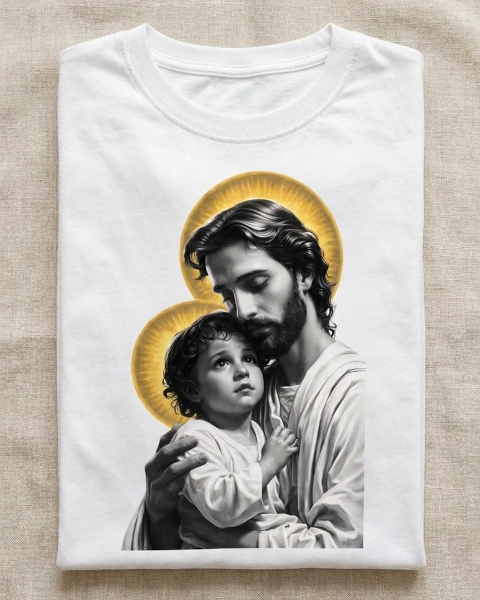
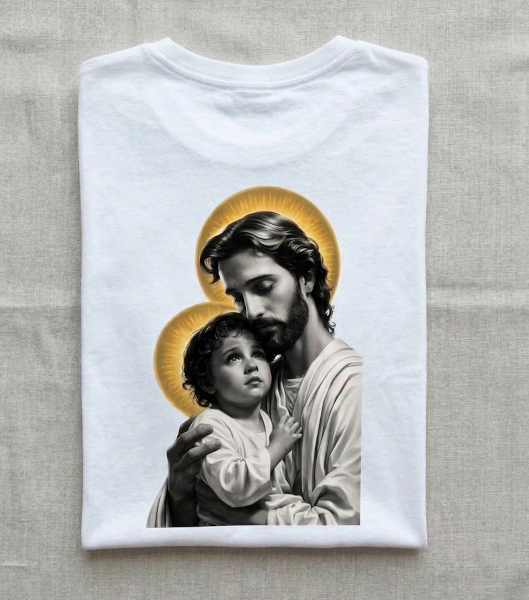
fix: add address to website in linktree

diff --git a/src/components/shirts/shirts.jsx b/src/components/shirts/shirts.jsx
@@ -10,7 +10,7 @@ import shirt5 from "../../assets/shirts/shirt5.jpeg";
 import shirt6 from "../../assets/shirts/shirt6.jpeg";
 import shirt7 from "../../assets/shirts/shirt7.jpeg";
 import shirt8 from "../../assets/shirts/shirt8.jpeg";
-import shirt9 from "../../assets/shirts/shirt9.jpeg";
+import shirt9 from "../../assets/shirts/shirt9.jpg";
 import shirt10 from "../../assets/shirts/shirt10.jpeg";
 import shirt11 from "../../assets/shirts/shirt11.jpeg";
 import shirt12 from "../../assets/shirts/shirt12.jpeg";
@@ -42,15 +42,15 @@ const shirts = [
     nome: "T-shirt Sagrada Família",
     descricao: "A Sagrada Família nos ensina que o amor, a união e a fé são os alicerces de um lar verdadeiramente guiado por Deus. Um convite para levar no coração e também vestir no dia a dia o exemplo de Jesus, Maria e José.",
     preco: 69.90,
-    imagem: shirt3,
-    imagemVerso: shirt9,
+    imagem: shirt9,
   },
   {
     id: 4,
     nome: "T-shirt São José e Menino Jesus",
     descricao: "Estampa de São José acolhendo o Menino Jesus em seus braços, representando o amor, o cuidado e a proteção paterna. Uma peça que transmite fé, ternura e devoção à Sagrada Família.",
     preco: 69.90,
-    imagem: shirt4,
+    imagem: shirt3,
+    imagemVerso: shirt4,
   },
   {
     id: 5,

diff --git a/src/pages/linktree/linktree.jsx b/src/pages/linktree/linktree.jsx
@@ -11,7 +11,7 @@ function Linktree() {
       icon: <ShoppingOutlined />,
       title: "Conheça nossa coleção",
       subtitle: "Encontre sua próxima peça favorita",
-      url: "https://SEU-SITE-AQUI.web.app",
+      url: "https://gracadivina-2d199.web.app/",
     },
     {
         icon: <WhatsAppOutlined />,

diff --git a/src/components/cta/cta.css b/src/components/cta/cta.css
@@ -19,6 +19,7 @@
     background-image: var(--cta-banner);
     background-size: cover;
     background-position: center;
+    filter: blur(4px);
     z-index: -2;
 }
 
